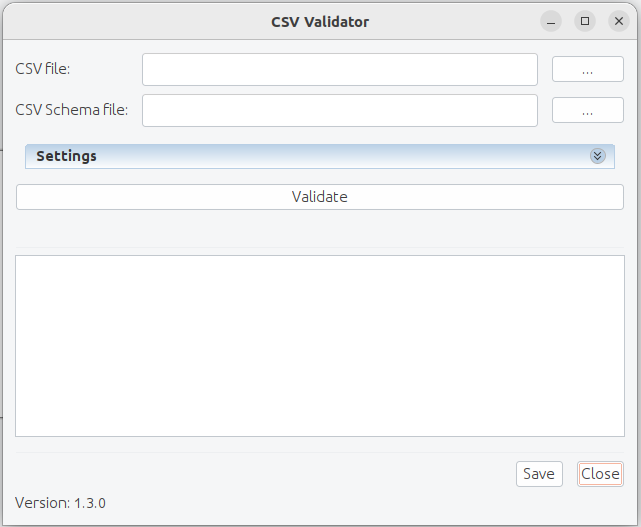
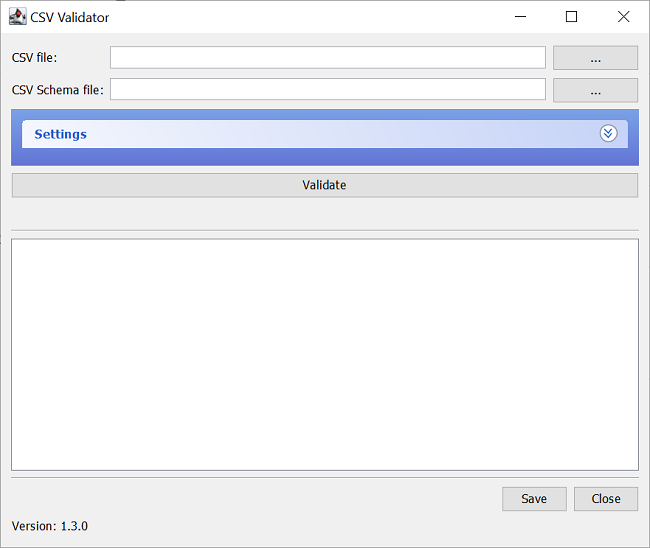
Screenshots updated for version 1.3.0

Changed region(s): [[0.0, 0.0, 1.0, 1.0], [0.0, 0.9412, 0.1872, 1.0]]

diff --git a/index.html b/index.html
@@ -140,15 +140,16 @@
 					You can either type, or copy-and-paste, the filepath into the appropriate box, these are labelled "CSV file" and "CSV Schema file" respectively.
 					Alternatively, click the buttons labelled "..." (highlighted in the image below): 
 					</p>
-					<img src="images/1.1/gui-file-selects-highlighted.png" alt="Part of GUI, showing in detail the boxes to enter file names for data and schema, file open dialogue buttons highlighted in yellow" id="GUI-detail1">
+					<img src="images/1.3.0/gui-file-selects-highlighted.png" alt="Part of GUI, showing in detail the boxes to enter file names for data and schema, file open dialogue buttons highlighted in yellow" id="GUI-detail1">
 					<p>
-					This will open up a standard "File open" dialogue, allowing you to navigate to the file in the file system, and select it:
+					This will open up a standard File picker dialogue.  the dialog only shows the files of the type being chosen. You can navigate to the file you want to choose
+					in the file system and select it:
 					</p>
-					<img src="images/1.1/file-open.png" alt="Standard file open dialogue, with CSV file selected" id="GUI-detail2">
+					<img src="images/1.3.0/file-open.png" alt="Standard file open dialogue, with CSV file selected" id="GUI-detail2">
 					<p>
-					Clicking "Open" will populate the related text box:
+					Clicking "Save" will populate the related text box:
 					</p>
-					<img src="images/1.1/filepath-text-box-populated.png" alt="Part of GUI, showing completed CSV file text box" id="GUI-detai3l">
+					<img src="images/1.3.0/filepath-text-box-populated.png" alt="Part of GUI, showing completed CSV file text box" id="GUI-detai3l">
 				</div>
 				<div>
 					<h3>Using Settings</h3>
@@ -159,7 +160,7 @@
 					(note that there is one additional option at the command line that is not available within Settings, to produce a detailed report on the parse of the schema itself). 
 					To open up Settings, click on the downward facing double arrow below the file dialogue buttons (highlighted below):
 					</p>
-					<img src="images/1.1/highlight-settings-arrow.png" alt="Part of GUI, highlighting Settings box" id="GUI-detail4">
+					<img src="images/1.3.0/highlight-settings-arrow.png" alt="Part of GUI, highlighting Settings box" id="GUI-detail4">
 					<p>
 					Having opened up Settings, you will see that there are six sets of options:
 						<ol>
@@ -179,7 +180,7 @@
 							<li><code>Path Substitutions</code></li>
 						</ol>
 					</p>
-					<img src="images/1.1/settings-opened.png" alt="Part of GUI, showing opened Settings section" id="GUI-detail5">
+					<img src="images/1.3.0/settings-opened.png" alt="Part of GUI, showing opened Settings section" id="GUI-detail5">
 					<div>
 						<h4>Fail on first error</h4>
 						<p>
@@ -230,11 +231,11 @@
 							<p>
 							To create a Path Substitution in the GUI, click the "Add Path Substitution..." button (highlighted):
 							</p>
-							<img src="images/1.1/settings-opened-create-substitution-highlighted.png" alt="Part of GUI, showing 'Add Path Substitution...' button highlighted" id="GUI-detail6">
+							<img src="images/1.3.0/settings-opened-create-substitution-highlighted.png" alt="Part of GUI, showing 'Add Path Substitution...' button highlighted" id="GUI-detail6">
 							<p>
 							This will open a popup:
 							</p>
-							<img src="images/1.1/add-path-substitution.png" alt="Popup window for entering substitution 'find-and-replace'" id="GUI-detail7">
+							<img src="images/1.3.0/add-path-substitution.png" alt="Popup window for entering substitution 'find-and-replace'" id="GUI-detail7">
 							<p>
 							in the first box enter the text string which will be found in the supplied CSV file, and in the second the text string which should be substituted.
 							So considering the examples already used in this document, the CSV file is found at Y:\UAT_2\ADM362B003\tech_acq_metadata_v1_ADM362B003.csv and we can see 
@@ -244,7 +245,7 @@
 							file:///y:/UAT_2/ADM362B003/ADM_362/ when we are checking for their existence and verifying the associated checksums.  So we enter those filepath fragments into 
 							the "From:" and "To:" boxes respectively, and click OK.  This gives:
 							</p>
-							<img src="images/1.1/settings-with-entered-substitution.png" alt="Popup window for entering substitution 'find-and-replace'" id="GUI-detail8">
+							<img src="images/1.3.0/settings-with-entered-substitution.png" alt="Popup window for entering substitution 'find-and-replace'" id="GUI-detail8">
 							<p>
 							Creating a Path Substitution in this way is equivalent to running via the Command Line with the -p or --path flags and supplying a key:value pair.
 							</p>
@@ -254,7 +255,7 @@
 							<p>
 							To edit a substitution, simply double-click on the field you wish to edit:
 							</p>
-							<img src="images/1.1/edit-file-substitution.png" alt="Editing substitution" id="GUI-detail9">
+							<img src="images/1.3.0/edit-file-substitution.png" alt="Editing substitution" id="GUI-detail9">
 							<p>
 							Hit &lt;Enter&gt; or &lt;Tab&gt;, or click on the other side of the substitution, to complete the edit.
 							</p>
@@ -281,10 +282,10 @@
 						If you are developing schemas, it is possible to make syntax errors in the schema, for example a mismatch in the declared number of columns 
 						(using the <a href="http://digital-preservation.github.io/csv-schema/csv-schema-1.0.html#total-columns-directive">Total Columns Directive</a>) against the actual number of 
 						<a href="http://digital-preservation.github.io/csv-schema/csv-schema-1.0.html#column-definitions">Column Definitions</a> included in the schema (eg 
-						<code>@totalColumns = 41 but number of columns defined = 42 at line: 2, column: 1</code>).  
+						<code>@totalColumns = 9 but number of columns defined = 10 at line: 2, column: 1</code>).
 						The schema itself is always checked before validation of the data begins, and schema errors always terminate validation.
 						</p>
-						<img src="images/1.1/bad-totalColumns-dir.png" alt="@totalColumns = 41 but number of columns defined = 42 at line: 2, column: 1" id="totalColumnsErr">
+						<img src="images/1.3.0/bad-total-columns.png" alt="@totalColumns = 9 but number of columns defined = 10 at line: 2, column: 1" id="totalColumnsErr">
 						<p>
 						Or, if the Version Declaration has been omitted from the schema, or is incorrect,
 						you will see a schema error saying that the <a href="http://digital-preservation.github.io/csv-schema/csv-schema-1.0.html#version-declaration">Version Declaration</a> is not present
@@ -529,7 +530,7 @@ Usage: validate [options] &lt;csv-path&gt; &lt;csv-schema-path&gt;
 				you must escape them by replacing them with %20) you should then find that all tests pass.  On a Unix-based system you will not need to reverse the slashes, 
 				but spaces and other special characters will still need to be escaped.  There is an additional complication that the % character is treated as a 
 				special character in Windows scripts, and itself needs to be escaped, so you should actually use %%20 to obtain the desired behaviour (there can be a further complication 
-				if you are calling out from a controlling script to launch the validator ie <code>call validate.bat</code> where the outer script will do a first replacement of the escaped
+				if you are calling out from a controlling script to launch the validator ie <code>call csv-validator-cmd.bat</code> where the outer script will do a first replacement of the escaped
 				character, and so within the call statement you would actually need to use %%%%20 to obtain the desired behaviour (this is passed to the call statement itself as %%20).
 				</p>
             </div>
